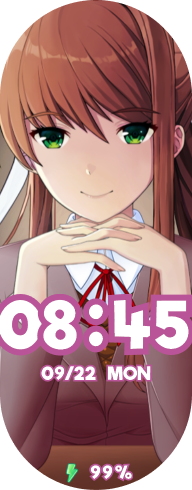
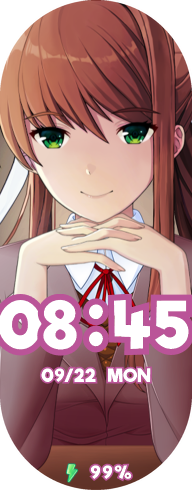
[feat]自动生成带屏幕圆角的静态预览

diff --git a/tools/previews.py b/tools/previews.py
@@ -1,0 +1,85 @@
+"""Generate the canonical daylight preview with antialiased screen corners."""
+import argparse
+from pathlib import Path
+
+from PIL import Image, ImageDraw
+from config import ROOT, load_devices
+
+
+def generate(config, assets, output=None):
+    width, height = config["width"], config["height"]
+    def load(name):
+        with Image.open(assets[name]) as source:
+            return source.convert("RGBA")
+
+    canvas = load("bg.bin")
+    if canvas.size != (width, height):
+        raise ValueError(f"Background size mismatch: {canvas.size}")
+    replacements = {
+        "timeHourHigh": "0.bin", "timeHourLow": "8.bin",
+        "timeMinuteHigh": "4.bin", "timeMinuteLow": "5.bin",
+        "dateContChild1": "num0.bin", "dateContChild2": "num9.bin",
+        "dateContChild4": "num2.bin", "dateContChild5": "num2.bin",
+        "dateWeek": "mon.bin",
+    }
+    def paste(name, x, y):
+        canvas.alpha_composite(load(name), (x, y))
+
+    for group in config["layout"]["groups"]:
+        if group["name"] == "msg": continue
+        x, y = group["x"], group["y"]
+        if group["name"] == "time": y = config["timeY"]
+        elif group["name"] == "dateCont": y = config["dateY"]
+        if group["name"] == "chargeCont":
+            positions = config["layout"]["battery"][1]
+            icon = group["children"][0]
+            paste("ap.bin", x + positions[0], y + icon.get("y", 0))
+            for i, name in enumerate(["num9.bin", "num9.bin", "num%.bin"], 1):
+                paste(name, x + positions[i], y)
+            continue
+        for child in group["children"]:
+            paste(replacements.get(child["name"], child["image"]),
+                  x + child.get("x", 0), y + child.get("y", 0))
+
+    shape = config["previewShape"]
+    radius = width / 2 if shape == "capsule" else shape
+    factor = 4
+    mask = Image.new("L", (width * factor, height * factor), 0)
+    ImageDraw.Draw(mask).rounded_rectangle(
+        (0, 0, width * factor - 1, height * factor - 1),
+        radius=round(radius * factor), fill=255,
+    )
+    canvas.putalpha(mask.resize((width, height), Image.Resampling.LANCZOS))
+    destination = ROOT / "devices" / config["assets"] / "preview.png"
+    canvas.save(destination)
+    # Remove only outputs of the previous preview implementation.
+    if output is not None:
+        old = Path(output)
+        for filename in ["normal.png", "night.png", "diagnostics.json"]:
+            (old / filename).unlink(missing_ok=True)
+        if old.is_dir() and not any(old.iterdir()): old.rmdir()
+    return destination
+
+
+def main():
+    from build import resources
+    devices = load_devices()
+    parser = argparse.ArgumentParser(description=__doc__)
+    parser.add_argument("--device", choices=["all", *devices], default="all")
+    args = parser.parse_args()
+    seen = set()
+    for name, config in devices.items():
+        if args.device not in ("all", name): continue
+        old = ROOT / "build" / name / "previews"
+        # Aliases share the same artwork and canonical preview.
+        if config["assets"] not in seen:
+            print(f"{name}: {generate(config, resources(config), old)}")
+            seen.add(config["assets"])
+        else:
+            for filename in ["normal.png", "night.png", "diagnostics.json"]:
+                (old / filename).unlink(missing_ok=True)
+            if old.is_dir() and not any(old.iterdir()): old.rmdir()
+
+
+if __name__ == "__main__":
+    main()

diff --git a/tools/build.py b/tools/build.py
@@ -10,6 +10,7 @@ from pathlib import Path
 from PIL import Image
 
 from config import ROOT, load_devices
+from previews import generate as generate_previews
 
 
 def lua(value):
@@ -93,6 +94,7 @@ def main():
         if (output / "app").exists():
             shutil.rmtree(output / "app")
         app.mkdir(parents=True, exist_ok=True)
+        generate_previews(config, assets, output / "previews")
         (output / "images").mkdir(exist_ok=True)
         (output / "output").mkdir(exist_ok=True)
         for relative, asset in assets.items():

diff --git a/README.md b/README.md
@@ -20,7 +20,7 @@
   <img src="images/2.png" alt="夜间展示" height="240" />
 </p>
 
-设备目录中的 `preview.png` 为导入的设计预览；实际效果以设备运行结果为准。
+设备目录中的 `preview.png` 根据当前静态布局自动生成并添加屏幕圆角；实际效果以设备运行结果为准。
 
 ## 设备适配
 
@@ -75,6 +75,7 @@ tools/
   build.py              生成 EasyFace 工程与可选编译
   config.py             设备配置继承与包别名解析
   clean_assets.py       清理已有 PNG 替代的 BIN
+  previews.py           根据设备坐标生成白天静态预览及屏幕圆角
   test.py               Lua 5.4 模拟回归与生成工程资源检查
 requirements.txt        回归使用的 Python 依赖
 ```
@@ -102,6 +103,12 @@ requirements.txt        回归使用的 Python 依赖
 真机检查重点为中文字体、人物眼部贴图对齐、对话换行、触摸事件、长按切换表盘与亮熄屏恢复。
 
 动画使用单一定时器按下一事件期限动态调度，持续亮屏每 60 秒维护日夜主题，点击和心率变化主动刷新；熄屏暂停。计时不依赖部分固件缺失的 `lvgl.tick_get()`，定时回调按计划间隔累计，外部事件通过秒级 `os.time()` 同步部分已过去时间。固件繁忙或秒级精度可能令时长略有偏差。用户真机试用暂未发现调度问题；实际功耗收益尚未量化，其他设备兼容性仍需分别验证。
+
+## 静态布局预览
+
+运行 `python tools/previews.py` 更新全部目标，或使用 `--device band10` 指定目标。直接替换 `devices/<素材目标>/preview.png`，共用素材的目标也共用预览。构建工程时同样更新白天预览，并按 `previewSize` 生成 `build/<目标>/preview.png` 编译缩略图。
+
+示例数据固定为 08:45、09/22 MON、99% 电量，按设备原生尺寸及实际坐标合成，仅生成白天正常状态，不含对话或表情叠图。手环 9/10/11 使用胶囊蒙版，Pro 使用 48px 圆角，RW6 使用 104px 圆角，均为抗锯齿透明边角。这是布局参考而非真机截图；圆角参数统一由 `devices.json` 的 `previewShape` 管理。band9 沿用原布局，时间数字左右边缘略有裁切。
 
 ## 相关链接
 
